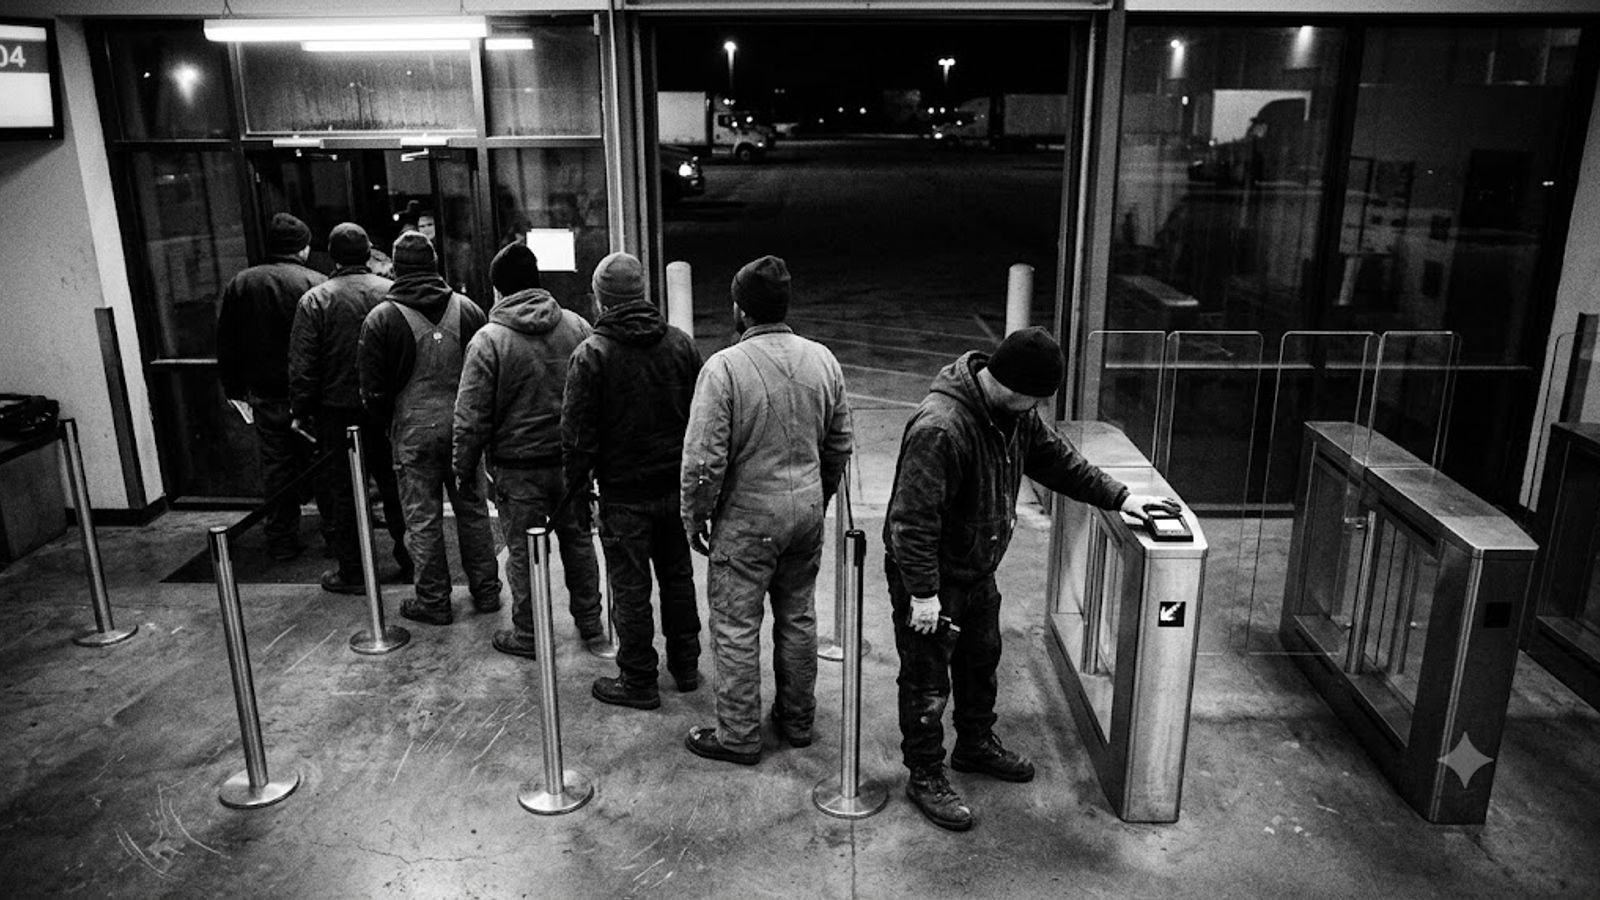
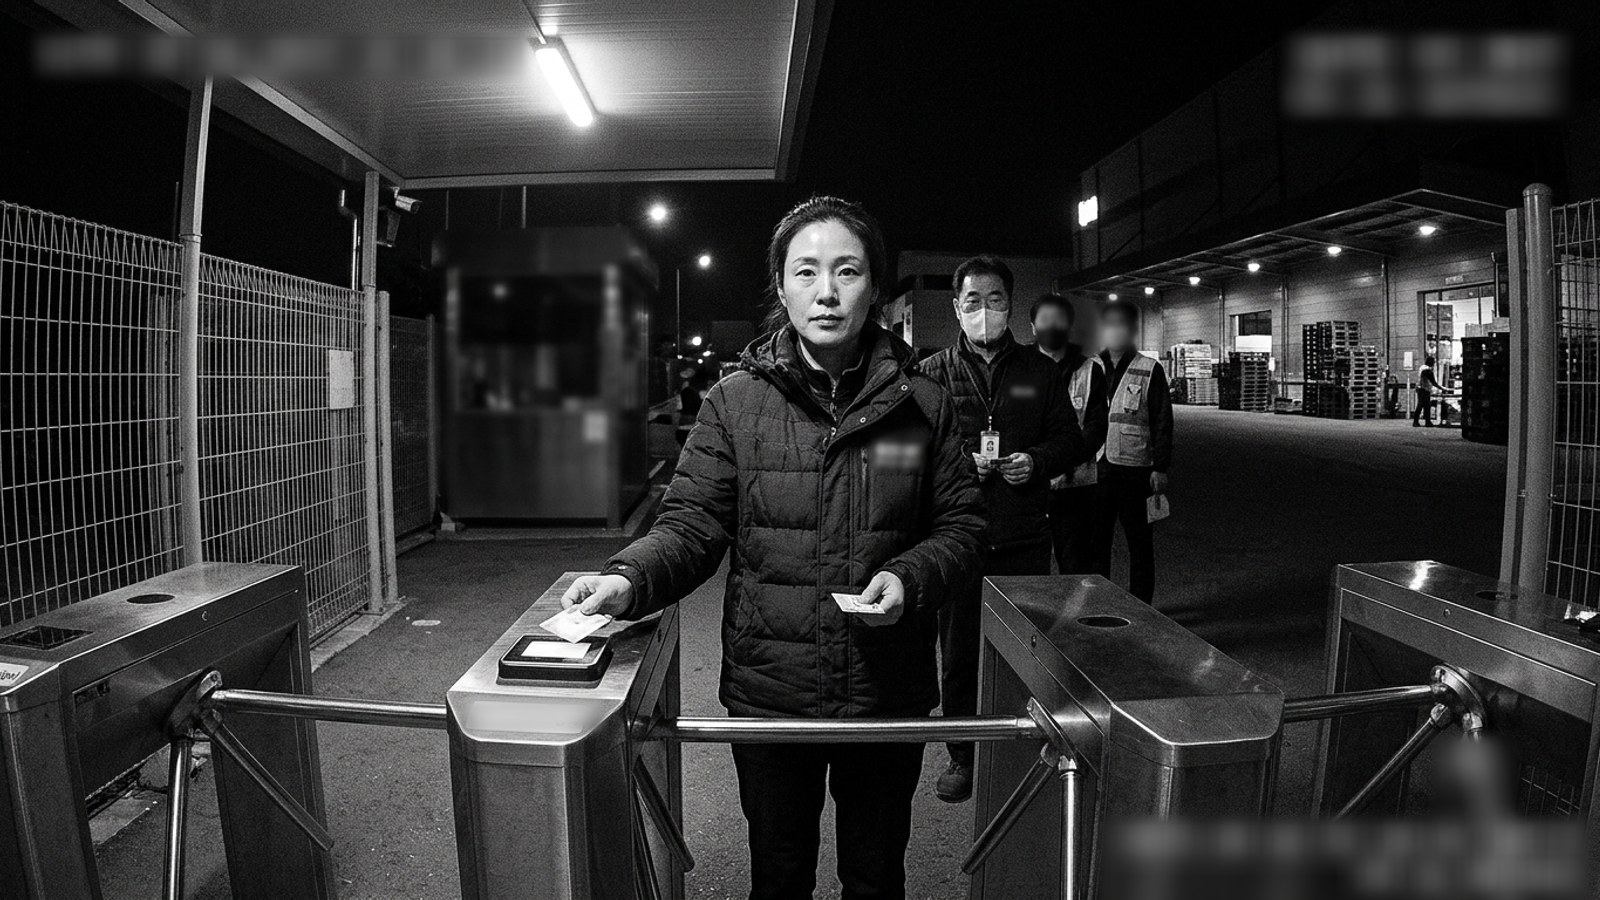
feat(야간조 솔로): 14회차 뒤 사용자 결정 여섯 — 대질 두 단계 · 대사 셋 · 흐엉 메모 · 정문 사진
- 대질 두 단계: 첫 정답(동쪽 기록 / 03:24 조회)에 서장현이 다른 쪽 알리바이로 한 번 물러서고(hold),
  그 물러선 자리를 깨는 둘째 증거에 말을 잃는다. 자백은 여전히 없다(정본 §6). 채점은 첫 증거 —
  둘째에서 두 번 막히면 「물러선 자리에서 끝까지 버텼다」로 끝난다. 「한 장에 끝나 허전하다」(14회차 셋)
- 서장현 12월 보고서: 「다 끝난 일, 공단도 다시 본 적 없다」 — 같은 서류철의 공단 공문(3주 전 재판정·원본 요청)이 바로 깬다
- 튜토리얼 반박: 「제 칸은 03시 반까지 다 채웠다」 — 일지의 빈 03:30 줄이 바로 깬다(급소 03:24 는 새지 않음)
- 흐엉 03:29 베트남어 대화방에 수사관 메모(본인에게 물어보자) — 번역은 여전히 심문에서
- 흐엉 「누구 지나가는 거」 → 「자정 전에」(깨는 증거가 23:41 뒷문)
- 정문 G-1 22:30 사진을 다시 그림: 눈높이 정면, 카드 두 장을 쥔 여성(오정숙) — 뒤에서 찍힌 남자 사진이 글과 어긋났다

diff --git a/src/yaganjo/solo/features/confront.jsx b/src/yaganjo/solo/features/confront.jsx
@@ -33,6 +33,8 @@ export function ConfrontView({ clues, broke = [], tries = 0, lastCode, onPresent
   const titleOf = (code) => clues.find((c) => c.code === code)?.title || soloContent.getClue?.(code)?.title || code;
   const [beat, setBeat] = useState(() => (tries >= MAX_TRIES ? { kind: 'fail', code: lastCode } : { kind: 'deny' }));
   const [picking, setPicking] = useState(false);
+  // 둘째 단계 — 첫 정답에 그가 버틴 뒤(hold). { first: 첫 정답 코드, tries: 둘째에서 내민 횟수 }
+  const [round2, setRound2] = useState(null);
   const [sel, setSel] = useState(null);
   const [pPerson, setPPerson] = useState(null);
   const [speaking, setSpeaking] = useState(false);
@@ -51,8 +53,16 @@ export function ConfrontView({ clues, broke = [], tries = 0, lastCode, onPresent
     : (CONFRONT.denyBefore || CONFRONT.deny);
 
   const present = (code) => {
-    const n = tries + 1;
     setPicking(false); setSel(null);
+    // 둘째 단계 — 채점은 첫 증거로 이미 끝났다(onPresent 안 부름). 맞으면 말을 잃고, 두 번 틀리면 버틴 채로 끝난다
+    if (round2) {
+      const t = round2.tries + 1;
+      setRound2({ ...round2, tries: t });
+      if ((CONFRONT.holdAccept?.[round2.first] || []).includes(code)) setBeat({ kind: 'press2', code });
+      else setBeat({ kind: 'wrong2', code, n: t });
+      return;
+    }
+    const n = tries + 1;
     onPresent(code, n);
     if (CONFRONT.accept[code]) setBeat({ kind: CONFRONT.press?.[code] ? 'press' : 'accept', code });
     else setBeat({ kind: CONFRONT.near.includes(code) ? 'near' : 'wrong', code, n });
@@ -70,11 +80,19 @@ export function ConfrontView({ clues, broke = [], tries = 0, lastCode, onPresent
   const again = left > 0 ? `▶ 한 번 더 내민다 (남은 기회 ${left})` : '▶ 탭하여 다음';
   // 한 번 더 내밀 때는 인물 거르기를 「전체」로 되돌린다 — 앞에서 고른 거르기가 남아 엉뚱한 카드를 고를 뻔했다(8회차)
   const retry = () => (left > 0 ? (setPPerson(null), setSel(null), setPicking(true)) : setBeat({ kind: 'fail', code: beat.code }));
+  const left2 = round2 ? MAX_TRIES - round2.tries : MAX_TRIES;
+  const retry2 = () => (left2 > 0 ? (setPPerson(null), setSel(null), setPicking(true)) : setBeat({ kind: 'holdFail', code: round2.first }));
+  const hasHold = (code) => !!CONFRONT.hold?.[code];
   const LINES = {
     // 기회가 두 번뿐이라는 걸 첫 증거를 내고서야 알았다(10회차) — 첫 내밀기 전에 말한다
     deny: { speaker: who?.name, text: deny, hint: `▶ 증거를 내민다 — 기회는 ${MAX_TRIES}번`, next: () => setPicking(true) },
-    press: { speaker: '수사관', text: CONFRONT.press?.[beat.code], hint: '▶ 탭하여 다음', next: () => setBeat({ kind: 'accept', code: beat.code }) },
-    accept: { speaker: who?.name, text: (CONFRONT.accept[beat.code] || '') + SILENT, hint: '▶ 탭하여 다음', next: () => setBeat({ kind: 'note', code: beat.code }) },
+    // 첫 정답 — 버팀(hold)이 있으면 그리로, 없으면 바로 말을 잃는다
+    press: { speaker: '수사관', text: CONFRONT.press?.[beat.code], hint: '▶ 탭하여 다음', next: () => setBeat({ kind: hasHold(beat.code) ? 'hold' : 'accept', code: beat.code }) },
+    hold: { speaker: who?.name, text: CONFRONT.hold?.[beat.code], hint: `▶ 한 번 더 몰아붙인다 — 기회 ${MAX_TRIES}번`, next: () => { setRound2({ first: beat.code, tries: 0 }); setPPerson(null); setPicking(true); } },
+    press2: { speaker: '수사관', text: CONFRONT.press2?.[beat.code], hint: '▶ 탭하여 다음', next: () => setBeat({ kind: 'accept', code: round2?.first || beat.code, final: true }) },
+    wrong2: { speaker: who?.name, text: wrongLineOf(beat.code), hint: left2 > 0 ? `▶ 한 번 더 내민다 (남은 기회 ${left2})` : '▶ 탭하여 다음', next: retry2 },
+    holdFail: { speaker: '수사 노트', text: CONFRONT.holdFail, hint: '▶ 결말 보기', next: () => onDone(round2?.first || beat.code) },
+    accept: { speaker: who?.name, text: (beat.final && CONFRONT.accept2 ? CONFRONT.accept2 : (CONFRONT.accept[beat.code] || '')) + SILENT, hint: '▶ 탭하여 다음', next: () => setBeat({ kind: 'note', code: beat.code }) },
     note: { speaker: '수사 노트', text: CONFRONT.noteBy?.[beat.code] || (CONFRONT.noteStatement && !brokeIds.has(CONFRONT.noteStatement) && CONFRONT.noteBefore) || CONFRONT.note, hint: '▶ 결말 보기', next: () => onDone(beat.code) },
     near: { speaker: who?.name, text: CONFRONT.nearLine, hint: again, next: retry },
     wrong: { speaker: who?.name, text: wrongLineOf(beat.code), hint: again, next: retry },
@@ -87,9 +105,10 @@ export function ConfrontView({ clues, broke = [], tries = 0, lastCode, onPresent
   //   엉뚱한 증거면 무엇이 필요한지 한 줄 — 「아무것도 증명하지 못합니다」만 두 번 듣고 기준을 몰랐다(2026-10-08 시험)
   const note = beat.kind === 'near' ? '(수사 노트) 방향은 맞다 — 다만 이것만으로는 그를 가리키지 못한다.'
     // 「그 시각의 말이 거짓」은 빈 일지(말과 안 맞는 빈 칸)를 부르는 말이었다(14회차) — 「기록이 그를 어디에 세우는가」로
+    : beat.kind === 'wrong2' && left2 > 0 ? `(수사 노트) ${CONFRONT.holdNeed?.[round2?.first] || ''}`
     : beat.kind === 'wrong' && left > 0 ? `(수사 노트) 필요한 건 그 시각 그가 어디서 무엇을 했는지 보여 주는 기록이다 — 동쪽으로 들어간 기록, 또는 03:24에 그가 2층에서 한 일의 기록. 빈 칸이나 없는 기록은 그를 어디에도 세우지 못한다.${usedCodes.size > 0 ? ' 2차 심문에서 그를 무너뜨린 증거(✅)도 다시 내밀 수 있다.' : ''}`
       : null;
-  const proved = beat.kind === 'accept' || beat.kind === 'note';
+  const proved = beat.kind === 'accept' || beat.kind === 'note' || beat.kind === 'holdFail';
 
   const persons = [...new Set(clues.map((c) => c.person).filter(Boolean))];
   // 이미 깬 증거를 앞에 — 2차 심문에서 쓴 정답 카드를 대질에서 다시 낼 생각을 못 했다(2026-10-07)
@@ -105,7 +124,7 @@ export function ConfrontView({ clues, broke = [], tries = 0, lastCode, onPresent
       <div className="aa-loc-chip" style={{ color: '#ffd479', borderColor: '#ffd47944' }}>⚖ 대질 · {who?.name}</div>
       <div className={`aa-room-fig${speaking && line.speaker === who?.name ? ' talking' : ''}`}>
         <StandingFigure sid={CONFRONT.culprit} person={who?.name} image={who?.image} height={560} fallbackSize={150}
-          mood={proved ? 'shock' : beat.kind === 'near' || beat.kind === 'wrong' ? 'angry' : undefined} />
+          mood={proved ? 'shock' : beat.kind === 'near' || beat.kind === 'wrong' || beat.kind === 'wrong2' || beat.kind === 'hold' ? 'angry' : undefined} />
       </div>
       {proved && <div className="cf-stamp" key={beat.code}>⚖ 입증</div>}
       {beat.code && beat.kind !== 'deny' && (
@@ -119,7 +138,9 @@ export function ConfrontView({ clues, broke = [], tries = 0, lastCode, onPresent
         <div className="aa-present" onClick={(e) => e.stopPropagation()}>
           <div className="aa-present-h">
             {/* 정답 둘 중 하나(03:24 태블릿 조회)는 현장이 아니라 그 시각의 거짓말을 깨는 증거다 — 「그 자리」만 말하자 현장 증거만 찾았다(13회차) */}
-            <span>⚖ <b>그 시각 그가 어디서 무엇을 했는지 보여 주는 기록</b> 한 장 · 남은 기회 {left}</span>
+            {round2
+              ? <span>⚖ <b>그가 물러선 자리를 무너뜨리는 기록</b> 한 장 — {CONFRONT.holdNeed?.[round2.first]} · 남은 기회 {left2}</span>
+              : <span>⚖ <b>그 시각 그가 어디서 무엇을 했는지 보여 주는 기록</b> 한 장 · 남은 기회 {left}</span>}
           </div>
           {usedCodes.size > 0 && (
             <p className="cf-used-note">✅ — 2차 심문에서 이 사람의 거짓말을 무너뜨린 증거. 대질에서 다시 내밀 수 있어요.</p>

diff --git a/src/yaganjo/solo/interrogation.js b/src/yaganjo/solo/interrogation.js
@@ -45,12 +45,14 @@ export const DATA = resolveTokens({
     statements: [
       { id: 'night', say: '감춤', q: '그날 밤 동선을 말씀해 주세요',
         text: '조장님이 매 정시에 도시면 저는 30분대에 돕니다. 서쪽 2/3와 2층이 제 몫이고요. 04시에 무전으로 형님을 두 번 불렀는데 답이 없었습니다. 자동문 쪽으로 가던 참에 04시 11분에 비명이 들렸고, 뛰어갔습니다. 04시 15분에 112와 119에 신고했습니다.',
-        press: '순찰 일지는 형님과 한 권을 나눠 씁니다. 정시 칸은 형님, 30분 칸은 저. 그날도 그대로였습니다.',
+        // 「그날도 그대로였다」는 무너지는 맛이 약했다(14회차 셋) — 일지 한 장으로 바로 깨지는 말을 한다: 「제 칸은 03시 반까지 다 채웠다」
+        //   (03:30 줄이 비어 있다). 인정하는 것은 여전히 「몰아서 쓰려다 못 썼다」뿐이라 급소(03:24)는 새지 않는다(2026-10-23 승인).
+        press: '순찰 일지는 형님과 한 권을 나눠 씁니다. 정시 칸은 형님, 30분 칸은 저. 그날도 제 칸은 03시 반까지 다 채웠습니다.',
         // 튜토리얼 반박(SoloApp tutorialTarget: night × NUMF-40) — 4회차부터 넷 연속 「반응만 나와 맥빠진다」였다.
         //   「그날도 그대로였다」는 작은 버릇의 거짓말이다(03:00·03:30 줄이 비어 있다). 깨져도 급소(03:24 태블릿)는
         //   새지 않는다 — 인정하는 것은 「몰아서 쓰려다 못 썼다」뿐이고, t0300 의 반응 문장과 같은 말이다(2026-10-08).
         contradict: { codes: ['NUMF-40'],
-          text: '(클립보드를 내려다본다) …그날은 03시하고 03시 반 줄이 비었네요. 일지는 원래 나중에 몰아서 씁니다. 그날은 몰아서 쓸 틈이 없었습니다.' },
+          text: '(클립보드를 내려다본다) …03시 반 제 칸이 비었네요. 다 채운 줄 알았습니다. 일지는 원래 나중에 몰아서 씁니다. 그날은 몰아서 쓸 틈이 없었습니다.' },
         soft: {
           'ATQK-74': '「F 충전소: 키 미분리 방치. 시정 요함」 — 제가 적은 겁니다. 안전 지적은 제 일이에요.',
           'MQDV-92': '무전기는 셋뿐입니다. 조장님, 저, 그리고 지게차 거치대에 하나.',
@@ -82,7 +84,9 @@ export const DATA = resolveTokens({
           'EKLZ-98': '그 의자요. …형님이 거기 기대 계셨습니다.',
         } },
       { id: 'report', say: '감춤', needs: ['TXCD-86', 'GYQV-38'], q: '작년 12월 재해조사 보고서에 대해',
-        text: '제가 작성자입니다. 서명란도 제 이름입니다. …그게 무슨 문제가 됩니까.',
+        // 참말(「제가 작성자」)을 깨는 셈이라 무너지는 맛이 없었다(14회차 셋). 「다 끝난 일 — 공단도 다시 본 적 없다」는 거짓을 얹는다:
+        //   같은 서류철의 공단 공문(3주 전 · 장해등급 재판정 · 원본 요청)이 그 말을 바로 깬다(2026-10-23 사용자 승인).
+        text: '제가 작성자입니다. 서명란도 제 이름입니다. 그 건은 다 끝난 일이고, 공단에서도 다시 들여다본 적 없습니다. …그게 무슨 문제가 됩니까.',
         press: '현장 판단은 안전관리자가 합니다. 그게 제 직무예요. 그 보고서 한 장으로 사람이 받을 걸 덜 받았다면, 그건 제가 지고 갈 일입니다.',
         // 감사 진술 초안(NWVL-86 — 「안전관리자가 독단으로 작성」)도 이 대답을 깬다. 9회차 셋 모두, 6·8회차에도
         //   이 ⚖ 를 끝내 못 깼다 — 질문 주제인 보고서 사본을 증거로 낼 생각을 못 하고 초안을 냈다.
@@ -405,7 +409,8 @@ export const DATA = resolveTokens({
         press: '「기석 씨… 또 뭐 내리는구나. 그렇게 생각했어요.」' },
       // 흐엉이 본 두 가지 — 시트에 트리거가 정해져 있지 않아 새로 세운 게이트다(2회차 시뮬레이션으로 무게를 본다).
       //   ▲ 전이라 서툰 말투를 지킨다. 들이밀어야 입을 연다.
-      { id: 'passer', say: '감춤', q: '그날 밤 누구 지나가는 거 보셨어요?',
+      // 깨는 증거가 23:41 뒷문(ZFDP-41)이라 「자정 전」을 질문에 박는다 — 2차 심문에서 03시대를 묻는 줄 알고 다섯 번 헛짚었다(14회차, 2026-10-23 승인)
+      { id: 'passer', say: '감춤', q: '그날 밤 자정 전에, 누구 지나가는 거 보셨어요?',
         text: '「랙 뒤예요. 안 보여요.」',
         press: '「발소리… 몇 번. 안 돌아봐요.」',
         soft: {

diff --git a/src/yaganjo/solo/lib/game.js b/src/yaganjo/solo/lib/game.js
@@ -436,6 +436,32 @@ export const CONFRONT = {
     'VZBL-10': '(기록을 한참 본다) …그 차는 위에서 누가 몰았는지 안 찍힙니다.', // ⭐ 동쪽에 한 사람이 남는다
     'LOOKUP-ZVLJ-37': '(오래 말이 없다) …일지 쓰다가 본 겁니다.',           // 조장 태블릿 — 관리자 조회 결과(03:24)
   },
+  // 두 단계 대질(2026-10-23 사용자 승인) — 14회차 셋 다 「한 장에 끝나 허전하다」. 첫 정답에 그는 한 번 버틴다:
+  //   다른 쪽 알리바이로 물러선다(동쪽 기록 → 「03:24엔 2층」, 03:24 조회 → 「나는 2층, 동쪽이 아니다」).
+  //   그 물러선 자리를 깨는 둘째 증거에 말을 잃는다. 자백은 여전히 없다(정본 §6).
+  //   채점은 첫 증거로 한다 — 둘째에서 막혀도 첫 기록이 그를 묶었다(「끝까지 버텼다」로 끝난다).
+  hold: {
+    'VZBL-10': '(기록을 한참 본다) …그 차는 위에서 누가 몰았는지 안 찍힙니다. 걸어 나온 사람이 저라 칩시다. 03시 24분에 저는 2층에서 일지를 쓰고 있었습니다. 동쪽에서 사람을 해친 사람이 그 시각에 일지를 씁니까.',
+    'LOOKUP-ZVLJ-37': '(오래 말이 없다) …일지 쓰다가 본 겁니다. 그 시각 저는 2층에 있었습니다. 형님이 쓰러진 동쪽이 아니라요.',
+  },
+  holdAccept: {
+    'VZBL-10': ['LOOKUP-ZVLJ-37', 'TST-E'],
+    'LOOKUP-ZVLJ-37': ['VZBL-10', 'TST-H', 'MPXG-54', 'QNWA-14'],
+  },
+  holdNeed: {
+    'VZBL-10': '그가 물러선 자리는 「03:24 2층에서 일지」다. 그 시각 2층에서 그가 정말 한 일을 보여 주는 기록이 필요하다.',
+    'LOOKUP-ZVLJ-37': '그가 물러선 자리는 「나는 동쪽에 없었다」다. 그날 밤 그가 동쪽에 들어갔다는 기록이 필요하다.',
+  },
+  press2: {
+    'LOOKUP-ZVLJ-37': '03시 24분, 당신 계정으로 취소된 전표를 조회했습니다. 일지를 쓰던 사람이 왜 그걸 봅니까.',
+    'TST-E': '취소 이력은 「관리자 조회」에 사번과 네 자리를 넣어야 보인다고 들었습니다. 03시 24분, 2층에서 그걸 넣은 사람이 일지를 쓰고 있었습니까.',
+    'VZBL-10': '03시 16분 동쪽으로 들어간 지게차. 03시 21분에 걸어서 나온 사람은 걸어 들어온 기록이 없습니다 — 그 지게차를 몰고 들어온 사람, 당신입니다.',
+    'TST-H': '03시 16분 지게차는 당신이 몰았다고 직접 말했습니다. 2층은 그 뒤입니다.',
+    'MPXG-54': '03시 3분, 동쪽으로 걸어 들어간 사람이 있습니다. 그 무전을 듣고 따라간 사람이 누구였습니까.',
+    'QNWA-14': '03시 16분 동쪽으로 들어간 지게차와 03시 21분 걸어서 나온 사람. 2층에 오르기 전에, 당신은 동쪽에 있었습니다.',
+  },
+  accept2: '(말이 끊긴다) …형님 일은… 지게차 사고입니다. 저는…',
+  holdFail: '(수사 노트) 그는 물러선 자리에서 끝까지 버텼다. 그래도 첫 기록이 그를 그 시각 그 자리에 묶었다.',
   // TST-H — 본인의 「03:16 지게차는 제가 몰았다」. 8회차에 그대로 내밀었다가 「아무것도 증명 못함」을 받고 납득하지 못했다.
   //   들어간 것까지는 인정한 말이라 「거의 맞음」으로 받는다(그게 다라고 버틴다).
   // 결말 — 결정적 증거가 왜 그를 묶는가(12회차 셋 다 바랐다). 대질의 수사관 대사(press)와 같은 사실만 쓴다.

diff --git a/src/data/yaganjo/clues-cdf.js b/src/data/yaganjo/clues-cdf.js
@@ -276,6 +276,8 @@ export const cluesCDF = {
             {
               // 베트남어 원문 그대로 둔다. 번역해야 읽히는 것이 이 대화방의 내용이다.
               name: 'Con gái',
+              // 번역은 주지 않는다 — 본인 입으로 듣는 것이 2차 질문(p2msg)이다. 물어보라는 실마리만(2026-10-23 승인).
+              memo: '베트남어라 읽을 수 없다. 맨 아래 03:29 — 사건 시각 한가운데 보낸 메시지다. 본인에게 무슨 뜻인지 물어보자.',
               messages: [
                 { from: 'them', text: 'Mẹ ơi, bao giờ mẹ về?', time: '엿새 전 19:40' },
                 { from: 'me', text: 'Sắp rồi con. Mẹ hứa.', time: '엿새 전 19:52' },

diff --git a/src/yaganjo/solo/features/clues.jsx b/src/yaganjo/solo/features/clues.jsx
@@ -404,6 +404,8 @@ function PhoneModal({ code, clue, collectedSet, onClose, onCollect, talkLog }) {
                 );
                 return (
                   <div className="s-kk-chat">
+                    {/* 대화방에 붙인 수사관 메모 — 베트남어 원문만 있어 결정적 03:29 메시지를 그냥 지나쳤다(14회차) */}
+                    {ch.memo && <div className="kk-memo">🗒 {ch.memo}</div>}
                     {(ch.messages || []).map((m, j) => (
                       <div key={j} className={`s-kk-msg ${m.from === 'me' ? 'me' : 'them'}`}>
                         {/* 지운 메시지는 글 없이 빈 말풍선으로 그려 고장처럼 보였다 — 카톡처럼 회색 한 줄(13회차) */}

diff --git a/src/yaganjo/solo/solo.css b/src/yaganjo/solo/solo.css
@@ -911,3 +911,4 @@ body:has(.s-modal) .s-toast, body:has(.s-modal) .s-toast.low { top: 8px; bottom:
 .s-zone:hover ~ .s-zone-lab.crowd, .s-zone:focus-visible ~ .s-zone-lab.crowd { opacity: 1 !important; z-index: 5; }
 .pph { position: relative; }
 .pph-del { position: absolute; left: 6px; top: 6px; background: #3a1d1dcc; color: #ffc9c0; font-size: .68rem; font-weight: 700; padding: 2px 7px; border-radius: 6px; pointer-events: none; }
+.kk-memo { margin: 4px 6px 10px; padding: 8px 10px; border-radius: 8px; background: #1d2230; border: 1px dashed #ffe9a866; color: #ffe9a8; font-size: .8rem; line-height: 1.6; }
